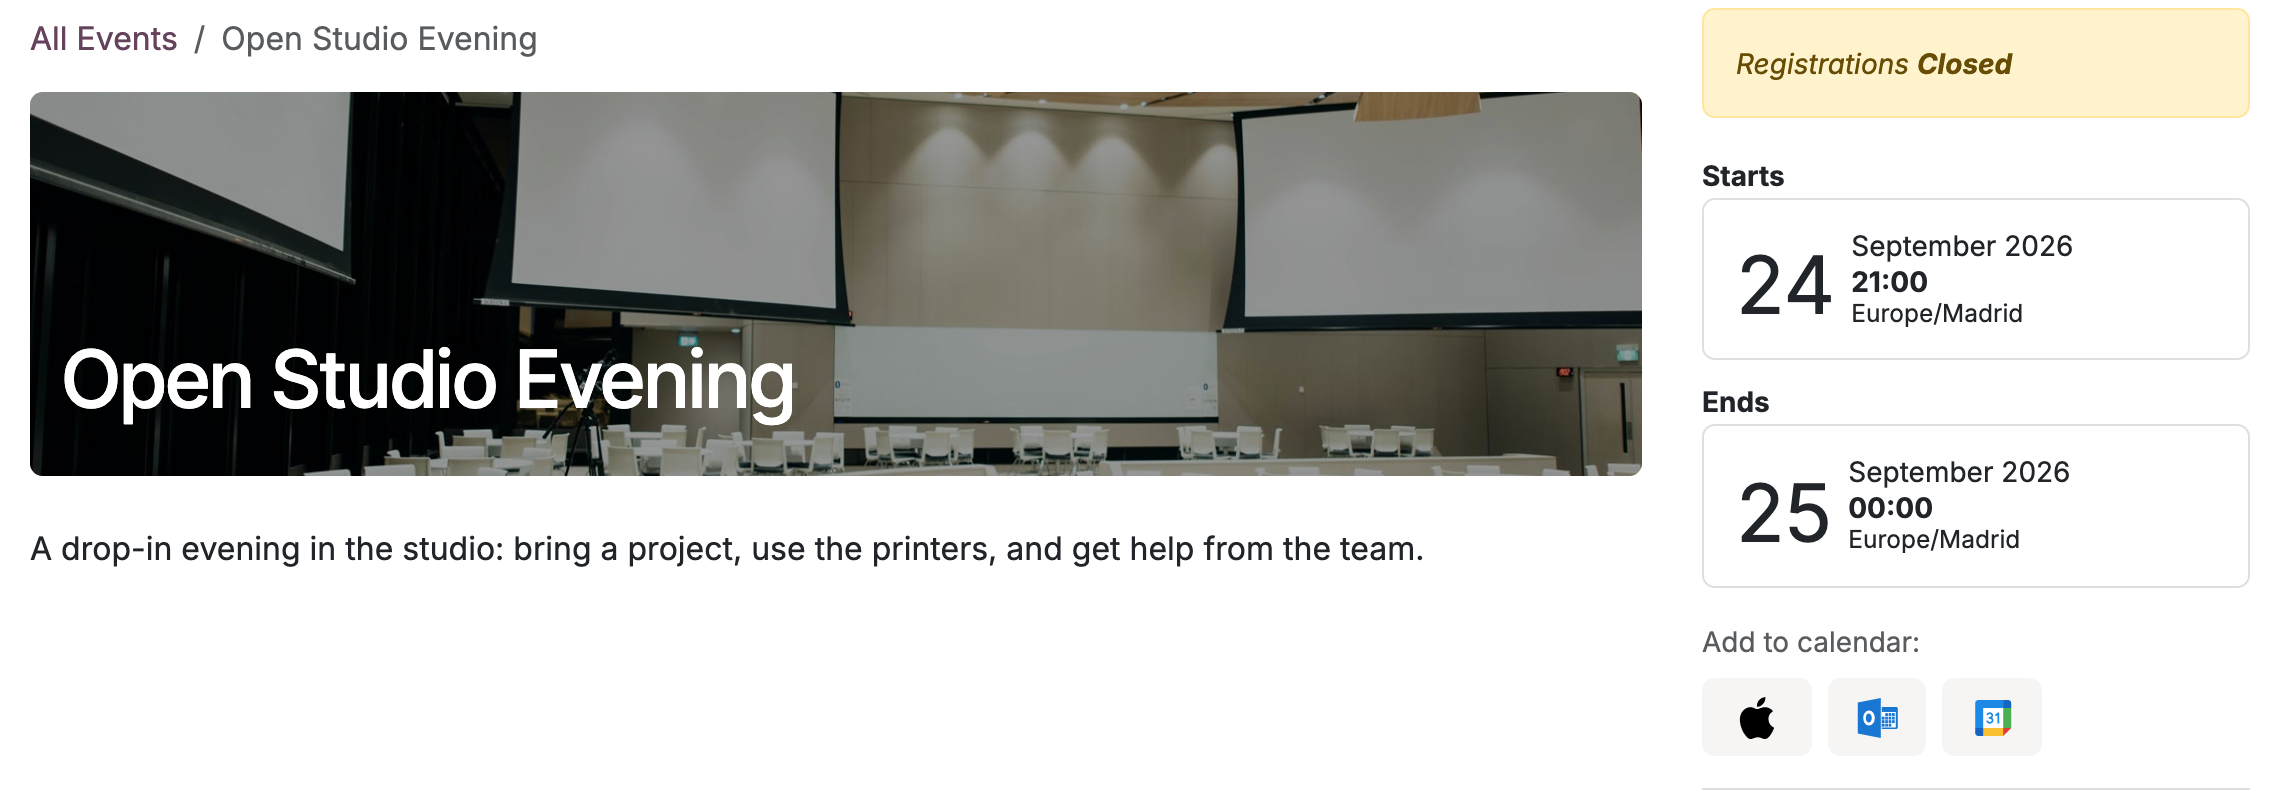
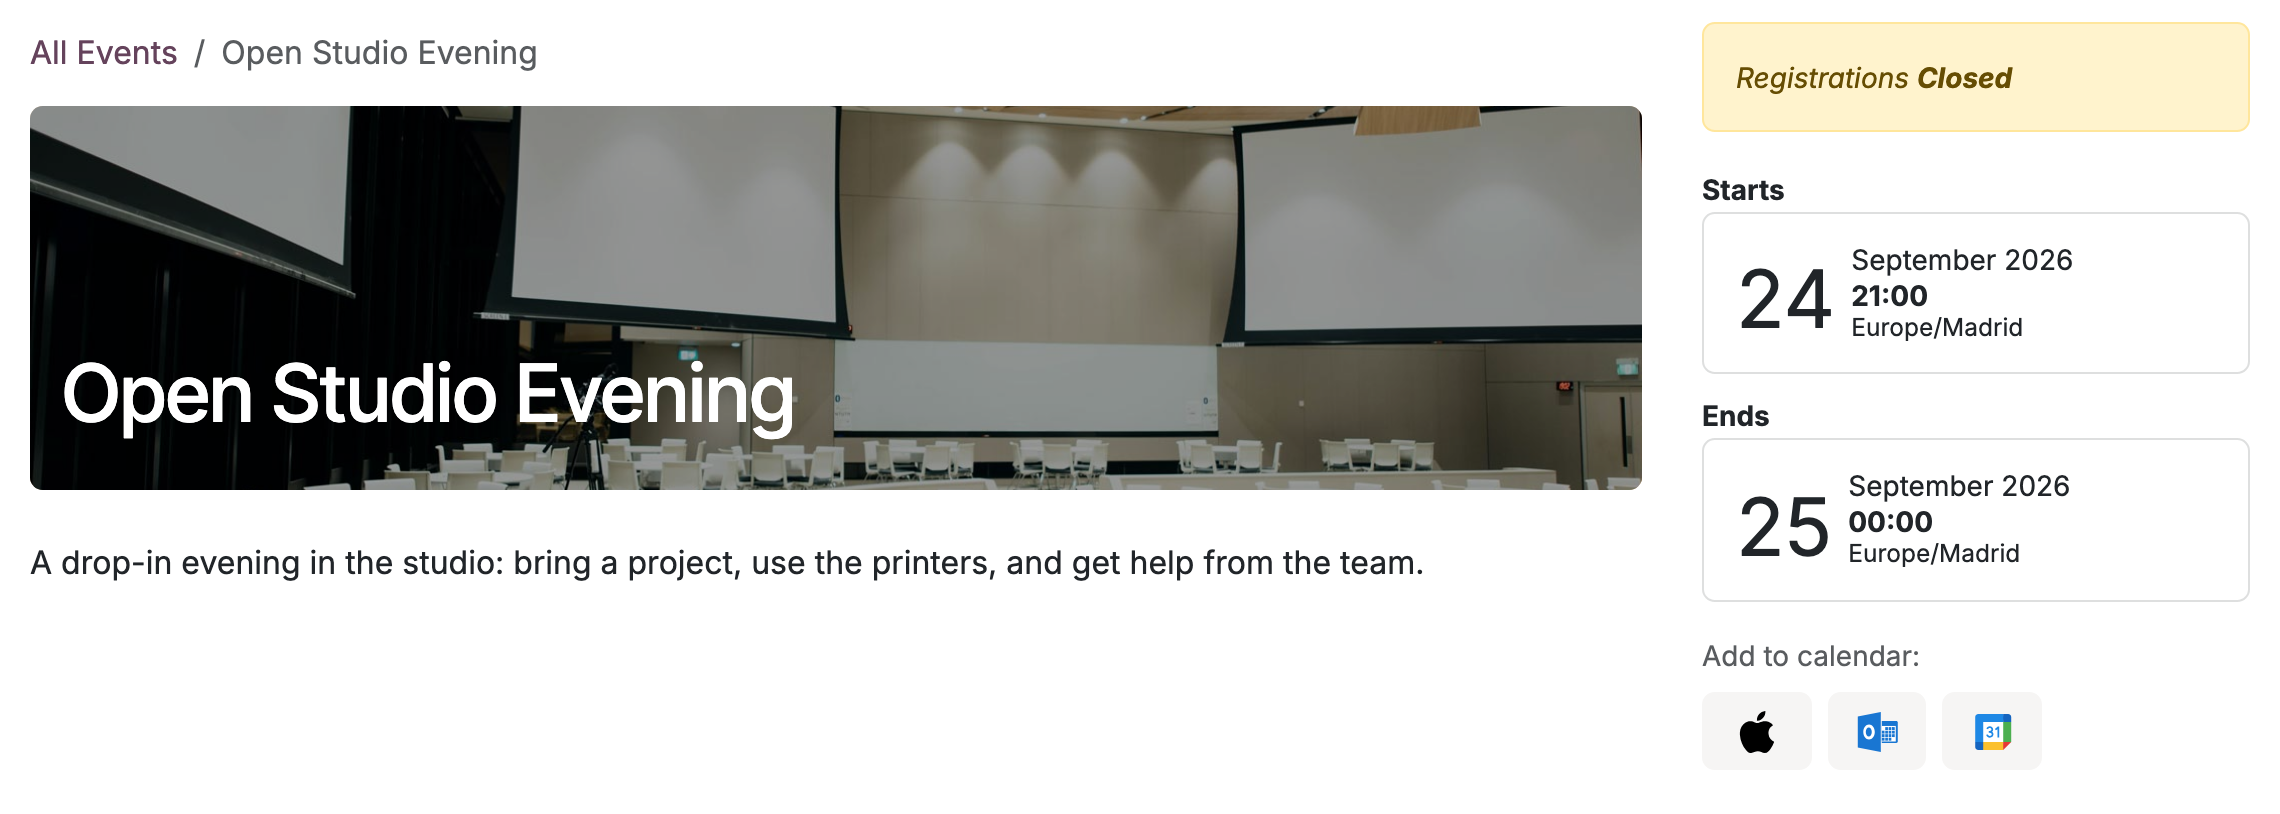
Retake the deadline module's main screenshot with space above and no rule
- The crop now starts a little above the breadcrumb, below the site header's shadow, and
  capture-only CSS drops the sidebar block's bottom border, which ran under the calendar buttons.
- The cover's front card shifts to match the new crop.

diff --git a/tools/covers/vmk_event_registration_deadline.html b/tools/covers/vmk_event_registration_deadline.html
@@ -23,7 +23,7 @@
     <div class="shot" style="left: 456px; top: 212px; width: 304px; height: 206px;">
         <div style="position: absolute; left: 14px; top: 14px; width: 276px; height: 178px; overflow: hidden;">
             <img src="../../vmk_event_registration_deadline/static/description/main_screenshot.png"
-                 style="width: 1140px; left: -851px; top: -2px;" alt="">
+                 style="width: 1140px; left: -851px; top: -9px;" alt="">
         </div>
     </div>
 </div>
